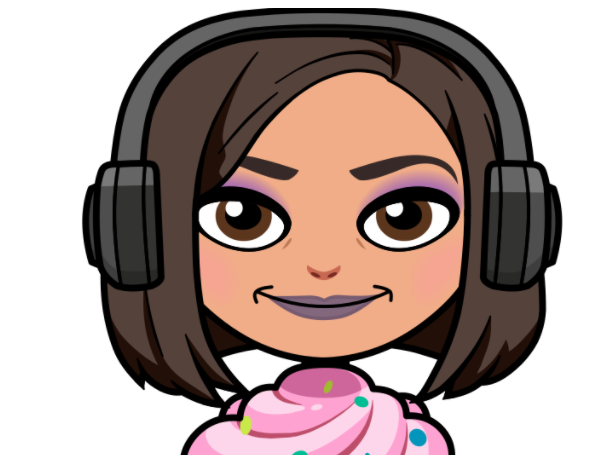
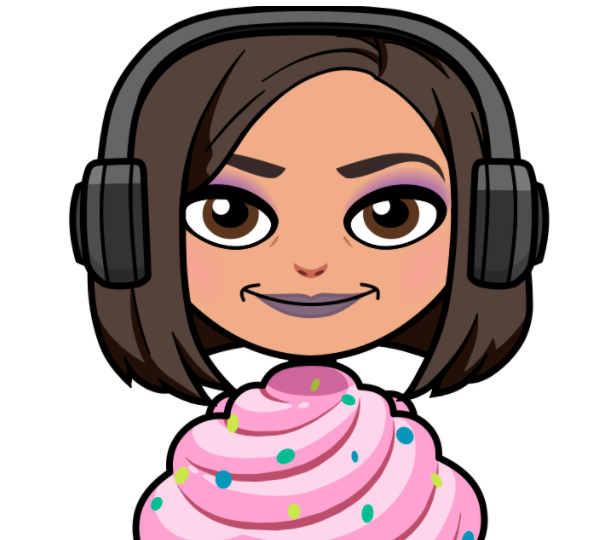
finish adding bitmoji

diff --git a/src/routes/about.js b/src/routes/about.js
@@ -59,33 +59,33 @@ const Officer = props => {
         name, image, position, fun_fact, link,
         email, github
     } = props;
-
-    /*const data = {
-        "name": "Bao",
-        "gender": "male",
+    /*
+    const data = {
+        "name": "Chau",
+        "gender": "female",
         "traits": {
-            "beard": "-1",
-            "brow": "755",
+            "brow": "768",
             "cheek_details": "-1",
+            "eyelash": "-1",
             "eye_details": "939",
-            "face_lines": "942",
+            "face_lines": "-1",
             "glasses": "954",
-            "hair": "813",
-            "hat": "1081",
-            "mouth": "763",
-            "nose": "761",
-            "beard_tone": "3875595",
+            "hair": "1260",
+            "hat": "1178",
+            "mouth": "1055",
+            "nose": "1032",
             "blush_tone": "-1",
             "brow_tone": "0",
             "eyeshadow_tone": "-1",
-            "hair_tone": "2566954",
+            "hair_tone": "2039326",
             "lipstick_tone": "-1",
             "pupil_tone": "5977116",
-            "skin_tone": "15838344",
-            "body": "2",
-            "face_proportion": "3"
+            "skin_tone": "9655597",
+            "body": "7",
+            "breast": "3",
+            "face_proportion": "2"
         },
-        "outfit": "1018481"
+        "outfit": "1017915"
     }
 
     const { gender, traits, outfit } = data;

diff --git a/src/data/officer-data.js b/src/data/officer-data.js
@@ -2,6 +2,8 @@ import baoBitmoji from "../images/bao.PNG"
 import brendanBitmoji from "../images/brendan.PNG"
 import chauBitmoji from "../images/chau.PNG"
 import vivianBitmoji from "../images/vivian.PNG"
+import miaBitmoji from '../images/mia.PNG'
+import brandonBitmoji from '../images/brandon.PNG'
 
 const officers = [
     {
@@ -37,8 +39,7 @@ const officers = [
     {
         name: "Brandon Foey",
         major: "Computer Engineering",
-        image:
-            "https://thespinoff.co.nz/wp-content/uploads/2019/03/GettyImages-139720130.jpg",
+        image: brandonBitmoji,
         position: "Workshop Chair",
         link: "",
         fun_fact: '"xD"',
@@ -58,7 +59,7 @@ const officers = [
     {
         name: "Mia Lucio",
         major: "Computer Engineering",
-        image: "https://mfiles.alphacoders.com/605/605158.jpg",
+        image: miaBitmoji,
         position: "Publicity Chair",
         link: "https://github.com/cqvu/os-ucsd.ucsd.edu",
         fun_fact: '"Imma fight you"',
